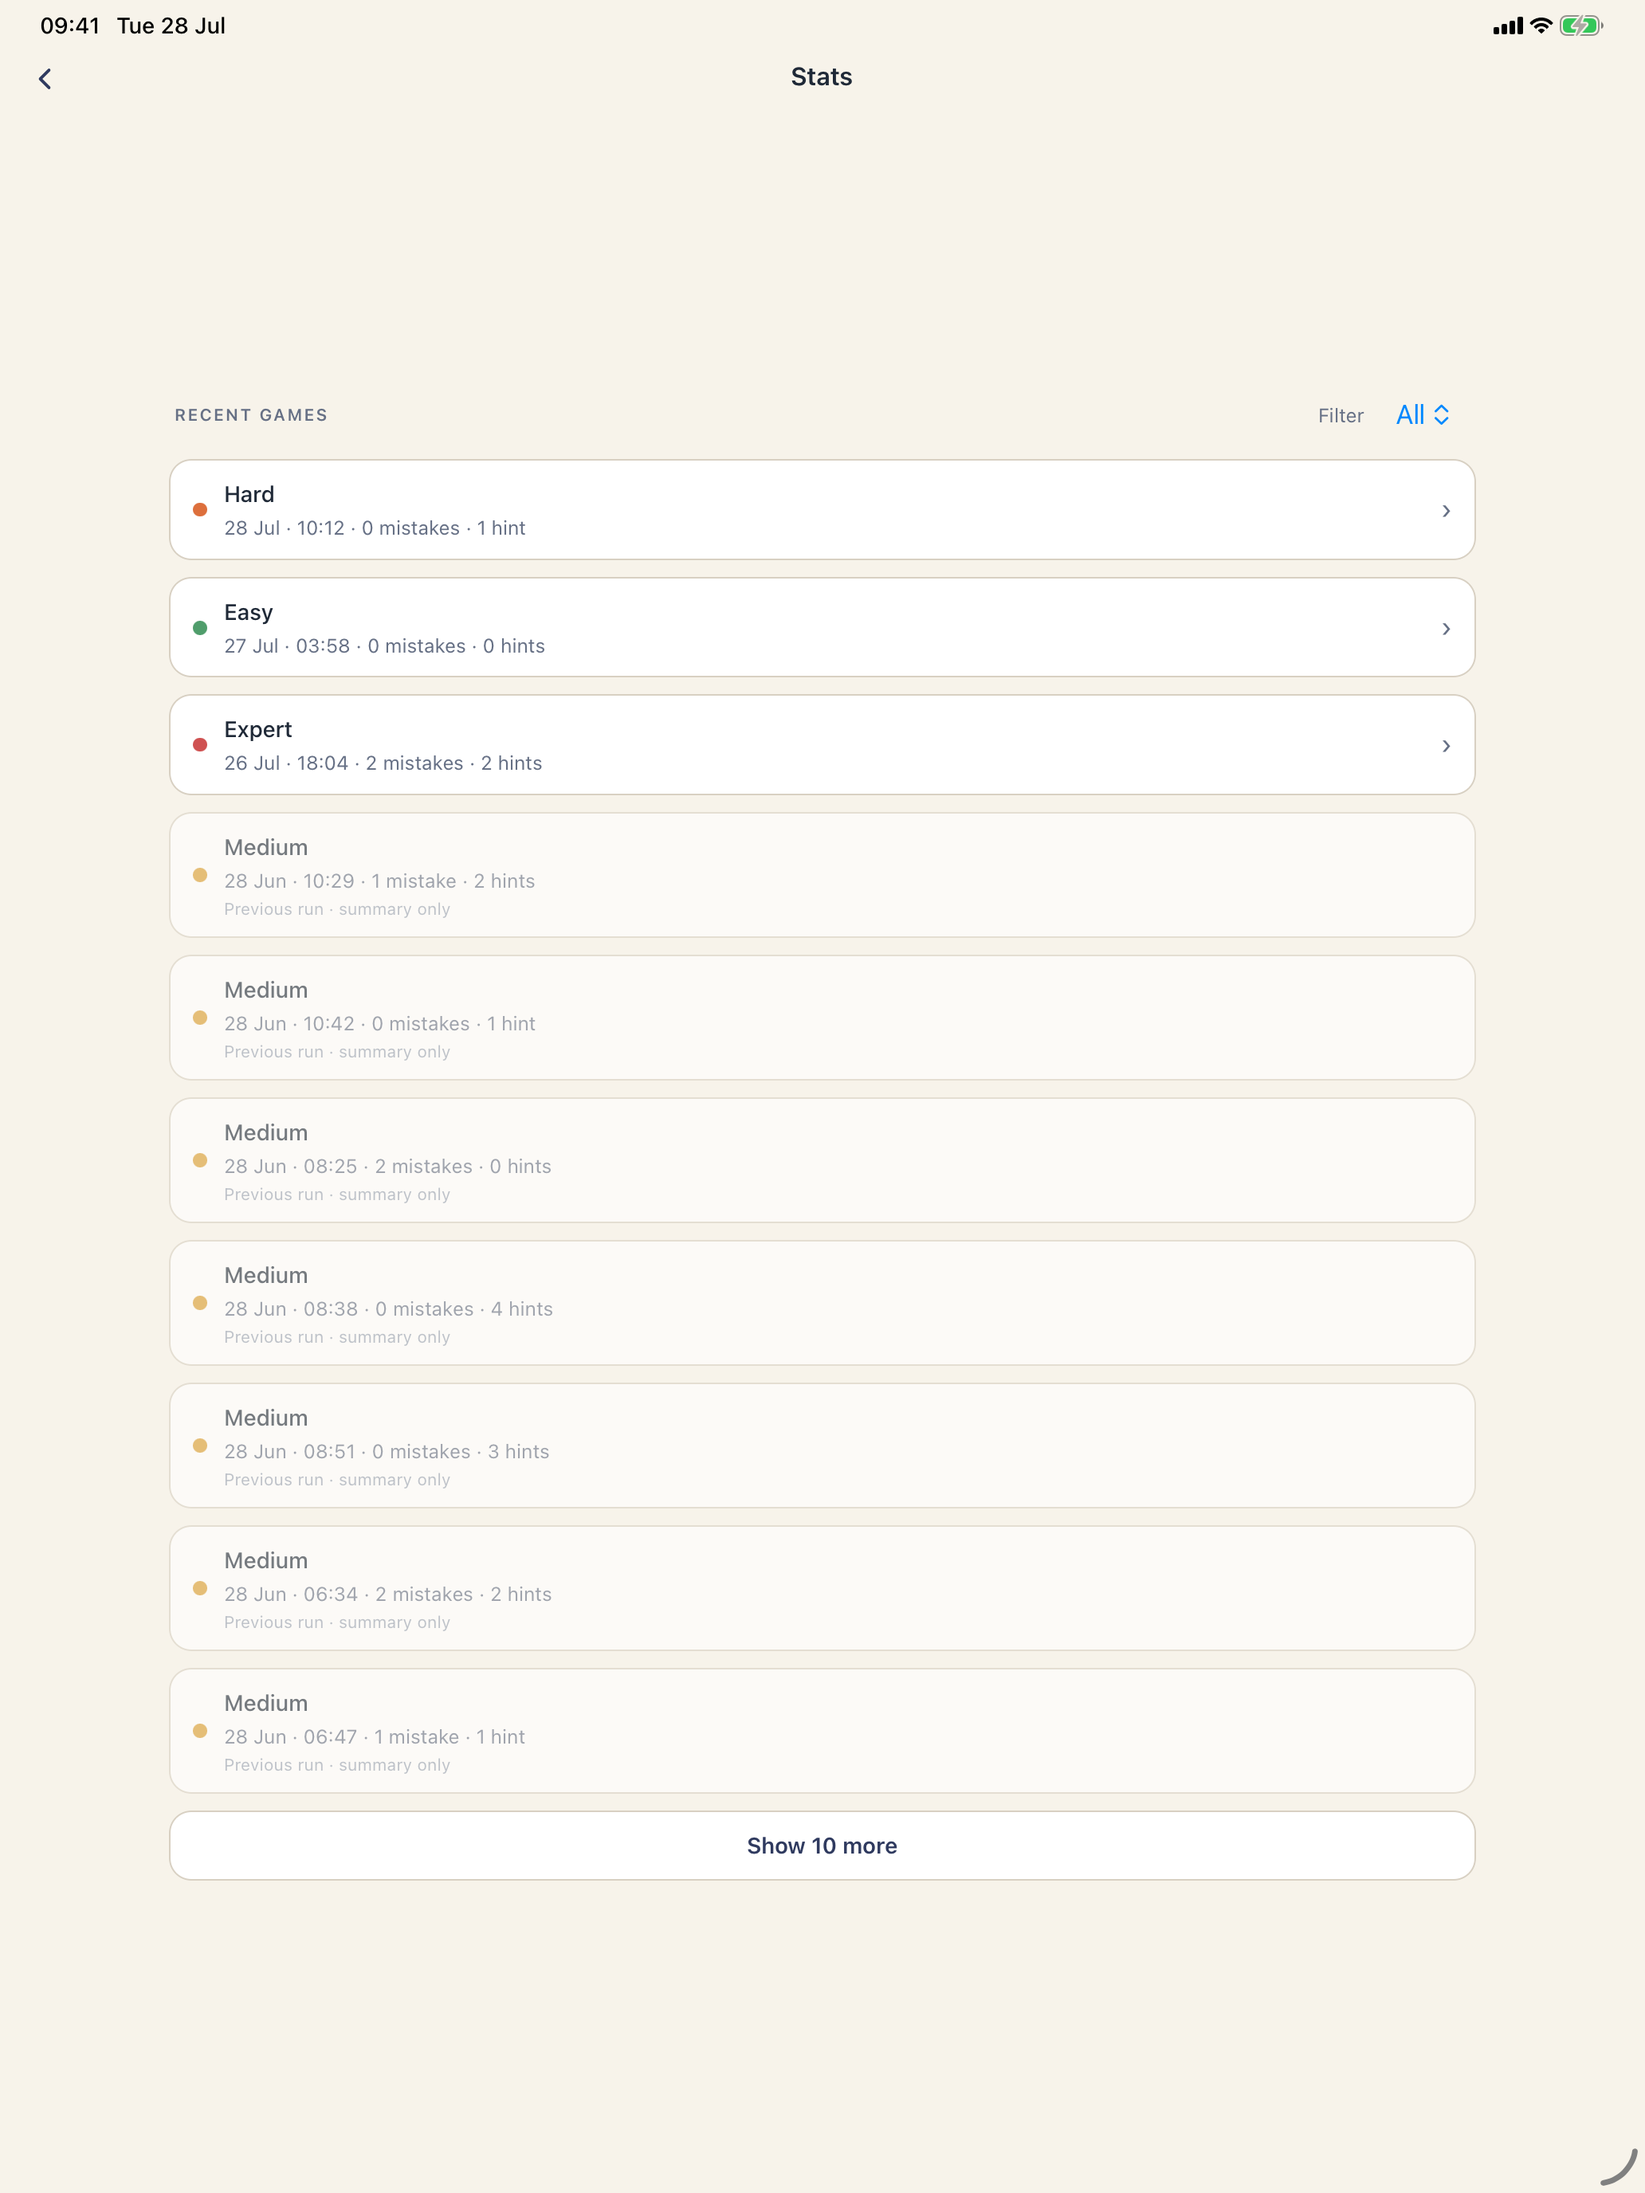
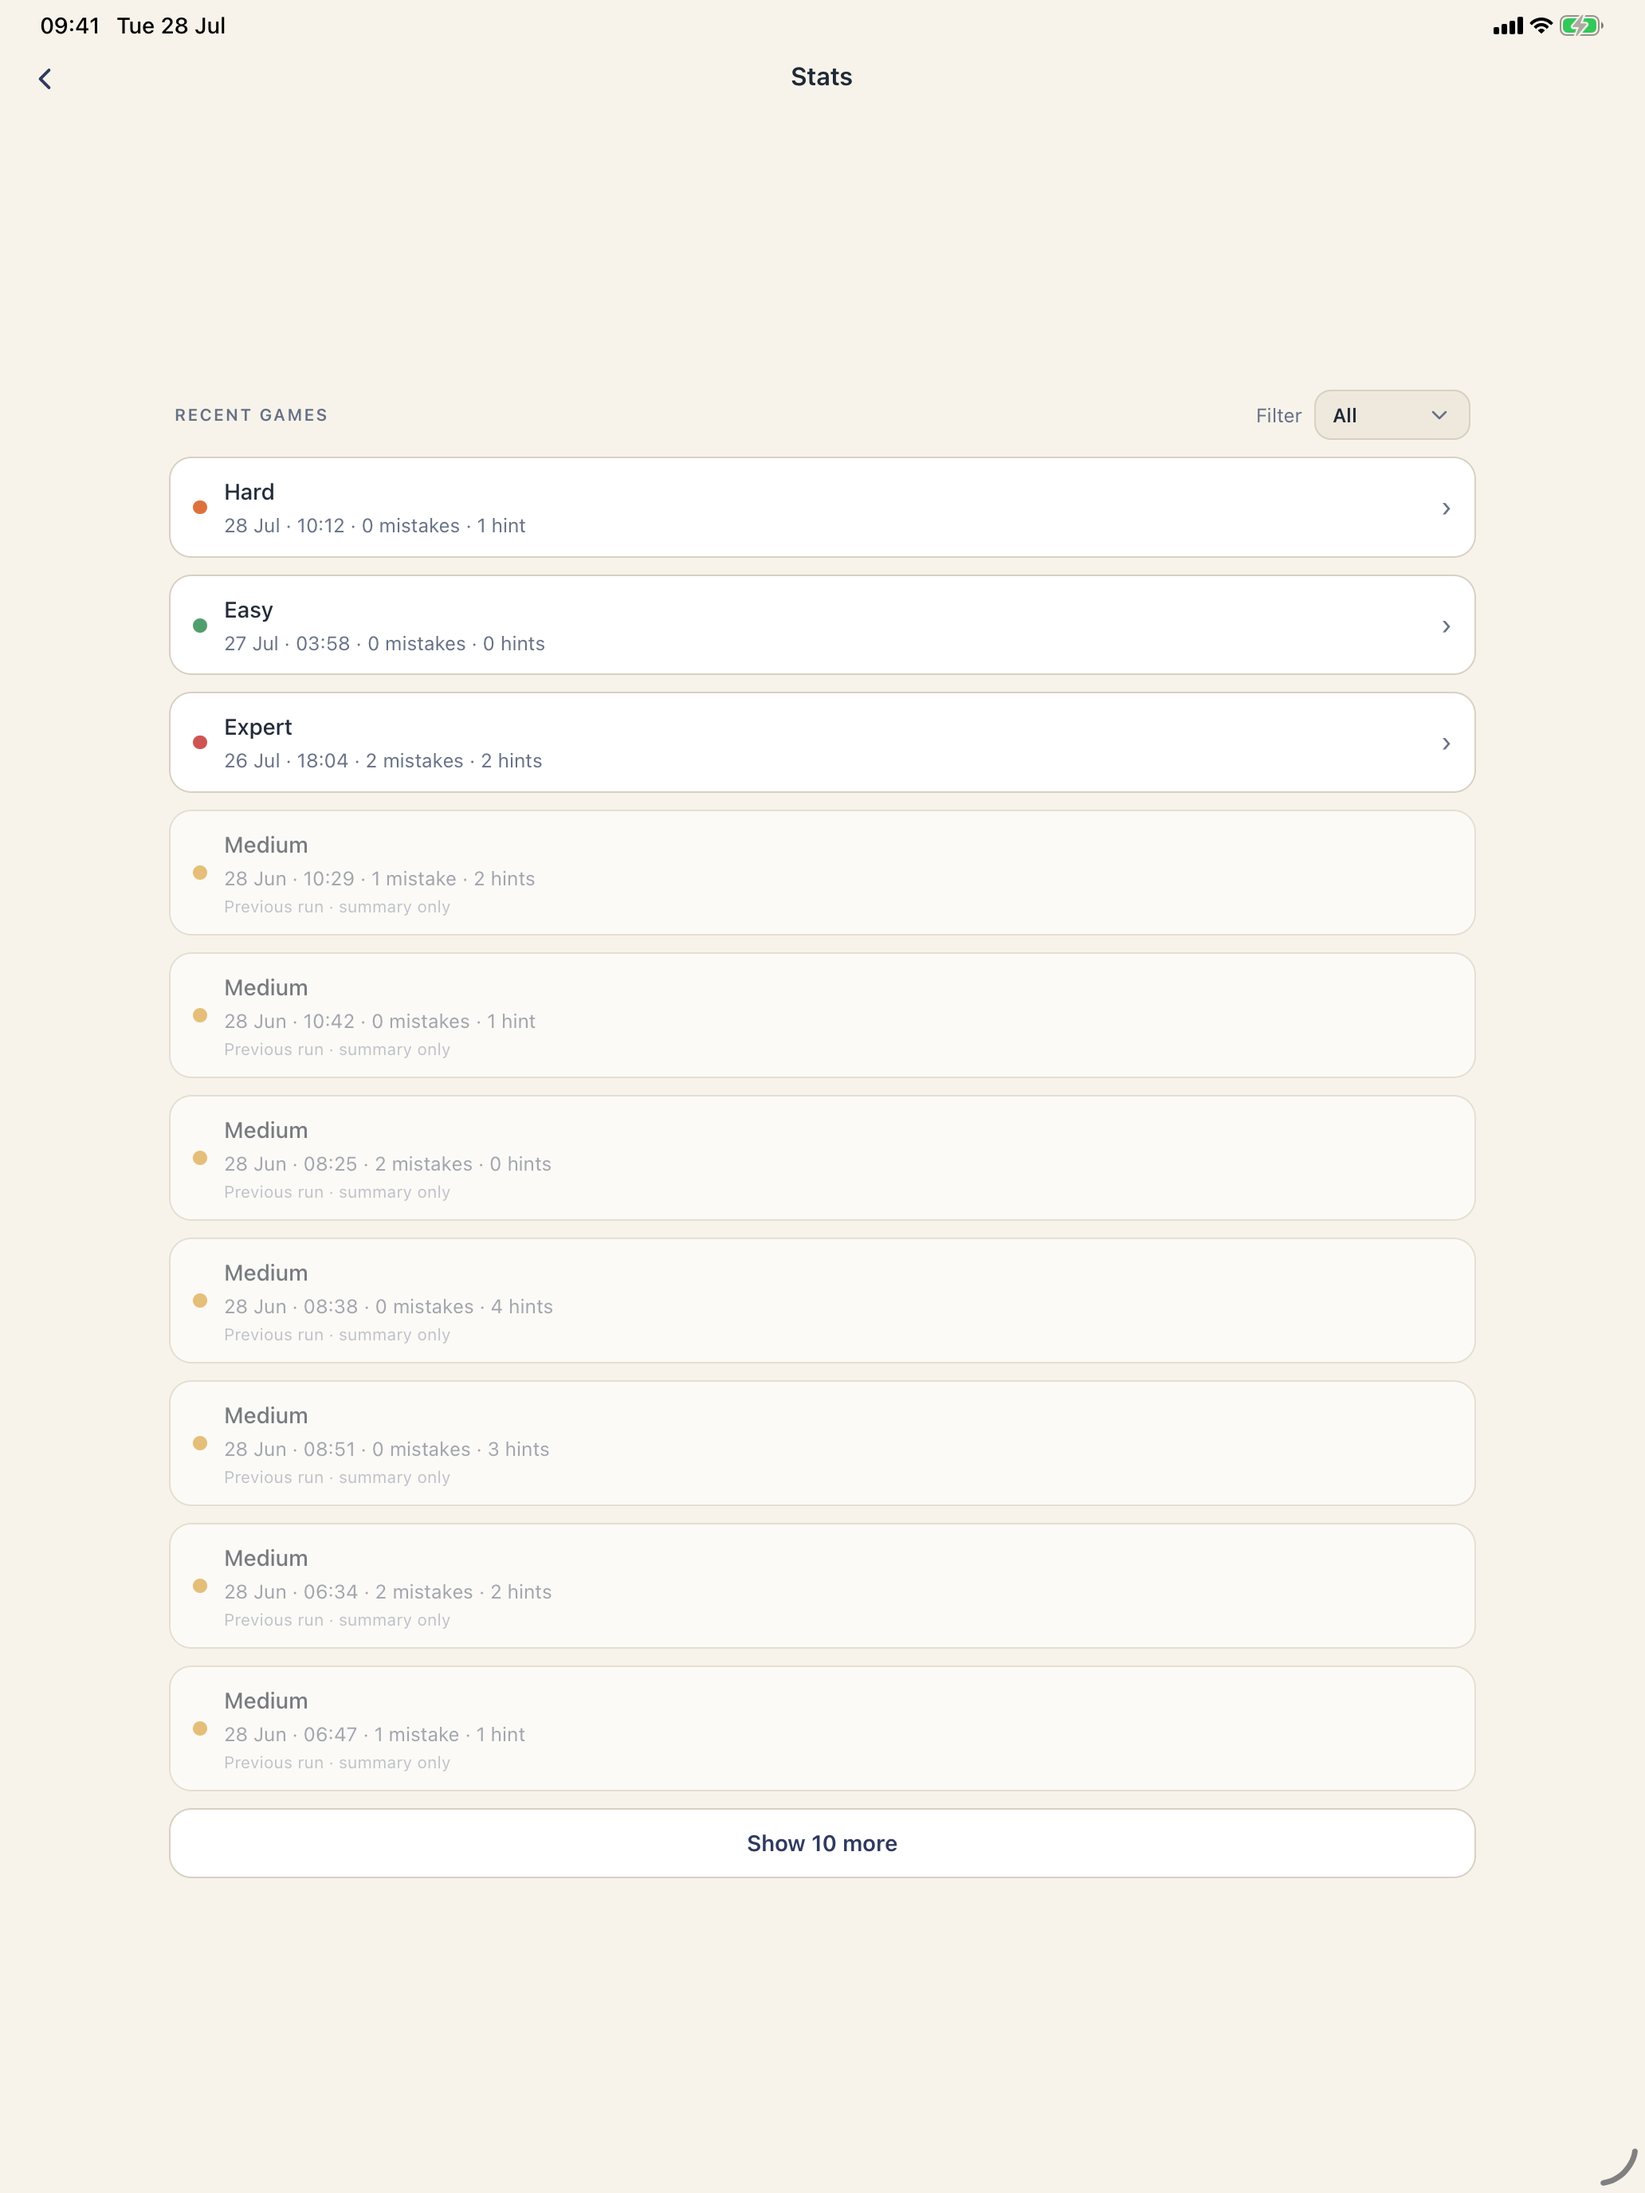
Polish history filtering for 1.2.0

diff --git a/src/components/RecentGamesSection.tsx b/src/components/RecentGamesSection.tsx
@@ -1,13 +1,26 @@
 import type { RecentGame, RecentGameFilter } from "@/data/repositories/statsRepository";
+import type { View as NativeView } from "react-native";
 
-import { Host, Picker } from "@expo/ui";
 import { clsx } from "clsx";
+import { useEffect, useRef, useState } from "react";
+import { Modal, Pressable as NativePressable, StyleSheet, useWindowDimensions } from "react-native";
+import {
+  FadeIn,
+  FadeOut,
+  LinearTransition,
+  ReduceMotion,
+  useAnimatedStyle,
+  useSharedValue,
+  withTiming,
+} from "react-native-reanimated";
 
+import { SimpleIcon } from "@/components/SimpleIcon";
 import { dailyTrackSummaryLabel } from "@/domain/daily";
 import { formatHistoryDate } from "@/domain/history";
 import { DIFFICULTY_DOT, DIFFICULTY_LABELS } from "@/domain/sudoku/difficultyPresentation";
 import { formatDuration } from "@/domain/time";
 import { Pressable, Text, View } from "@/tw";
+import { Animated } from "@/tw/animated";
 
 type RecentGamesSectionProps = {
   games: RecentGame[];
@@ -32,6 +45,20 @@ const FILTERS: readonly { value: RecentGameFilter; label: string }[] = [
   { value: "expert", label: "Expert" },
 ];
 
+const ROW_ENTER = FadeIn.duration(180).reduceMotion(ReduceMotion.System);
+const ROW_EXIT = FadeOut.duration(120).reduceMotion(ReduceMotion.System);
+const ROW_LAYOUT = LinearTransition.duration(180).reduceMotion(ReduceMotion.System);
+const FILTER_MENU_WIDTH = 184;
+const FILTER_MENU_HEIGHT = FILTERS.length * 44 + 2;
+const SCREEN_EDGE_GAP = 12;
+
+type FilterAnchor = {
+  x: number;
+  y: number;
+  width: number;
+  height: number;
+};
+
 export function RecentGamesSection({
   games,
   settings,
@@ -42,6 +69,59 @@ export function RecentGamesSection({
   onShowMore,
   onOpen,
 }: RecentGamesSectionProps) {
+  const triggerRef = useRef<NativeView>(null);
+  const { width: screenWidth, height: screenHeight } = useWindowDimensions();
+  const [filterMenuOpen, setFilterMenuOpen] = useState(false);
+  const [filterAnchor, setFilterAnchor] = useState<FilterAnchor | null>(null);
+  const contentOpacity = useSharedValue(1);
+  const selectedFilterLabel =
+    FILTERS.find((item) => item.value === filter)?.label ?? FILTERS[0].label;
+
+  useEffect(() => {
+    contentOpacity.value = withTiming(loading ? 0.55 : 1, {
+      duration: loading ? 100 : 160,
+      reduceMotion: ReduceMotion.System,
+    });
+  }, [contentOpacity, loading]);
+
+  const contentStyle = useAnimatedStyle(() => ({ opacity: contentOpacity.value }));
+
+  const openFilterMenu = () => {
+    triggerRef.current?.measureInWindow((x, y, width, height) => {
+      if (width <= 0 || height <= 0) {
+        return;
+      }
+      setFilterAnchor({ x, y, width, height });
+      setFilterMenuOpen(true);
+    });
+  };
+
+  const closeFilterMenu = () => {
+    setFilterMenuOpen(false);
+  };
+
+  const selectFilter = (nextFilter: RecentGameFilter) => {
+    closeFilterMenu();
+    if (nextFilter !== filter) {
+      onFilterChange(nextFilter);
+    }
+  };
+
+  const menuLeft =
+    filterAnchor == null
+      ? SCREEN_EDGE_GAP
+      : Math.min(
+          screenWidth - FILTER_MENU_WIDTH - SCREEN_EDGE_GAP,
+          Math.max(SCREEN_EDGE_GAP, filterAnchor.x + filterAnchor.width - FILTER_MENU_WIDTH),
+        );
+  const menuTop =
+    filterAnchor == null
+      ? SCREEN_EDGE_GAP
+      : Math.min(
+          screenHeight - FILTER_MENU_HEIGHT - SCREEN_EDGE_GAP,
+          filterAnchor.y + filterAnchor.height + 6,
+        );
+
   return (
     <View className="gap-3">
       <View className="flex-row items-center justify-between gap-4 px-1">
@@ -53,35 +133,117 @@ export function RecentGamesSection({
         </Text>
         <View className="flex-row items-center gap-2">
           <Text className="text-ink-soft text-sm">Filter</Text>
-          <Host matchContents>
-            <Picker<RecentGameFilter> selectedValue={filter} onValueChange={onFilterChange}>
-              {FILTERS.map((item) => (
-                <Picker.Item key={item.value} label={item.label} value={item.value} />
-              ))}
-            </Picker>
-          </Host>
+          <NativePressable
+            ref={triggerRef}
+            onPress={openFilterMenu}
+            accessibilityRole="button"
+            accessibilityLabel={`Filter recent games, ${selectedFilterLabel} selected`}
+            accessibilityHint="Opens the recent games filter menu"
+            accessibilityState={{ expanded: filterMenuOpen }}
+            hitSlop={6}
+            style={({ pressed }) => ({ opacity: pressed ? 0.68 : 1 })}
+          >
+            <View className="border-line bg-surface-muted h-9 w-28 flex-row items-center justify-between rounded-xl border px-3">
+              <Text className="text-ink text-sm font-semibold">{selectedFilterLabel}</Text>
+              <SimpleIcon name="down" tone="muted" size={16} />
+            </View>
+          </NativePressable>
         </View>
       </View>
-      {games.length > 0 ? (
-        <View className="gap-3">
-          {games.map((game) => (
-            <RecentGameRow
+      <Modal
+        visible={filterMenuOpen && filterAnchor != null}
+        transparent
+        animationType="fade"
+        presentationStyle="overFullScreen"
+        onRequestClose={closeFilterMenu}
+      >
+        <View style={StyleSheet.absoluteFill}>
+          <NativePressable
+            onPress={closeFilterMenu}
+            accessible={false}
+            style={StyleSheet.absoluteFill}
+          />
+          <View
+            accessibilityViewIsModal
+            accessibilityRole="menu"
+            onAccessibilityEscape={closeFilterMenu}
+            className="border-line bg-surface overflow-hidden rounded-2xl border"
+            style={{
+              position: "absolute",
+              left: menuLeft,
+              top: menuTop,
+              width: FILTER_MENU_WIDTH,
+              borderCurve: "continuous",
+              boxShadow: "0 10px 30px rgba(28, 38, 56, 0.18)",
+            }}
+          >
+            {FILTERS.map((item, index) => {
+              const selected = item.value === filter;
+              return (
+                <NativePressable
+                  key={item.value}
+                  onPress={() => selectFilter(item.value)}
+                  accessibilityRole="menuitem"
+                  accessibilityState={{ selected }}
+                  style={({ pressed }) => ({ opacity: pressed ? 0.68 : 1 })}
+                >
+                  <View
+                    className={clsx(
+                      "h-11 flex-row items-center justify-between px-4",
+                      index > 0 && "border-line border-t",
+                      selected && "bg-surface-muted",
+                    )}
+                  >
+                    <Text
+                      className={clsx(
+                        "text-base",
+                        selected ? "text-primary font-semibold" : "text-ink font-medium",
+                      )}
+                    >
+                      {item.label}
+                    </Text>
+                    {selected ? <SimpleIcon name="check" tone="primary" size={17} /> : null}
+                  </View>
+                </NativePressable>
+              );
+            })}
+          </View>
+        </View>
+      </Modal>
+      <Animated.View
+        style={contentStyle}
+        layout={ROW_LAYOUT}
+        accessibilityState={{ busy: loading }}
+        className="gap-3"
+      >
+        {games.length > 0 ? (
+          games.map((game) => (
+            <Animated.View
               key={game.id}
-              game={game}
-              settings={settings}
-              onPress={() => onOpen(game)}
-            />
-          ))}
-        </View>
-      ) : (
-        <View className="border-line bg-surface items-center rounded-2xl border px-4 py-5">
-          <Text className="text-ink-soft text-center">
-            {loading
-              ? "Loading recent games…"
-              : `No ${filter === "all" ? "" : `${filter} `}games yet`}
-          </Text>
-        </View>
-      )}
+              entering={ROW_ENTER}
+              exiting={ROW_EXIT}
+              layout={ROW_LAYOUT}
+            >
+              <RecentGameRow game={game} settings={settings} onPress={() => onOpen(game)} />
+            </Animated.View>
+          ))
+        ) : (
+          <Animated.View
+            key={`empty-${filter}`}
+            entering={ROW_ENTER}
+            exiting={ROW_EXIT}
+            layout={ROW_LAYOUT}
+          >
+            <View className="border-line bg-surface items-center rounded-2xl border px-4 py-5">
+              <Text className="text-ink-soft text-center">
+                {loading
+                  ? "Loading recent games…"
+                  : `No ${filter === "all" ? "" : `${filter} `}games yet`}
+              </Text>
+            </View>
+          </Animated.View>
+        )}
+      </Animated.View>
       {hasMore ? (
         <Pressable
           onPress={onShowMore}

diff --git a/src/components/SimpleIcon.tsx b/src/components/SimpleIcon.tsx
@@ -2,6 +2,8 @@ import type { ComponentProps, ComponentType } from "react";
 
 import {
   ChartColumn,
+  Check,
+  ChevronDown,
   ChevronLeft,
   Cog,
   Eraser,
@@ -26,7 +28,9 @@ import { useCSSVariable } from "@/tw";
 
 export type SimpleIconName =
   | "back"
+  | "check"
   | "close"
+  | "down"
   | "erase"
   | "eye"
   | "hint"
@@ -55,7 +59,9 @@ type LucideComponent = ComponentType<ComponentProps<typeof Cog>>;
 
 const ICONS: Record<SimpleIconName, LucideComponent> = {
   back: ChevronLeft,
+  check: Check,
   close: X,
+  down: ChevronDown,
   erase: Eraser,
   eye: Eye,
   hint: Lightbulb,

diff --git a/docs/DECISIONS.md b/docs/DECISIONS.md
@@ -59,9 +59,18 @@ exists. Older imported/seeded summaries without a retained game remain
 read-only and are labelled “summary only.” Reset Stats continues to remove
 completed history.
 
+The filter uses a custom fixed-width select. A static trigger opens an anchored,
+fade-only menu with no scale, spring, or label-dependent sizing. This replaces
+the SwiftUI menu picker because its built-in press and selection motion felt
+unsettled beside the otherwise calm Stats UI. While a new query runs, the
+current rows soften slightly. Removed rows fade out, retained rows move into
+place, and new rows fade in using short Reduce Motion-aware transitions.
+
 **Why:** Existing `completed_games` data already supports the feature without a
 migration. Query-backed filtering gives predictable memory and render cost,
-while the cap prevents Stats becoming an unbounded archive screen.
+while the cap prevents Stats becoming an unbounded archive screen. Stable
+control geometry and restrained list transitions make filtering feel like one
+continuous interaction instead of an abrupt screen replacement.
 
 ## 2026-07-28: Fixed game geometry is the Dynamic Type exception
 

diff --git a/docs/ROADMAP.md b/docs/ROADMAP.md
@@ -222,7 +222,9 @@ loop.
 **Implementation note (2026-07-28):** Stats queries 10 rows initially, supports
 All/Daily/difficulty filters, and loads 10 more at a time up to 100. Retained
 games can reopen their solved board; rows without a retained game are explicit
-summary-only results. No schema migration is required.
+summary-only results. The custom select has stable dimensions, and result
+changes use short, Reduce Motion-aware fade and layout transitions. No schema
+migration is required.
 
 ### BF-104: Explanatory hints and accessibility hardening
 
